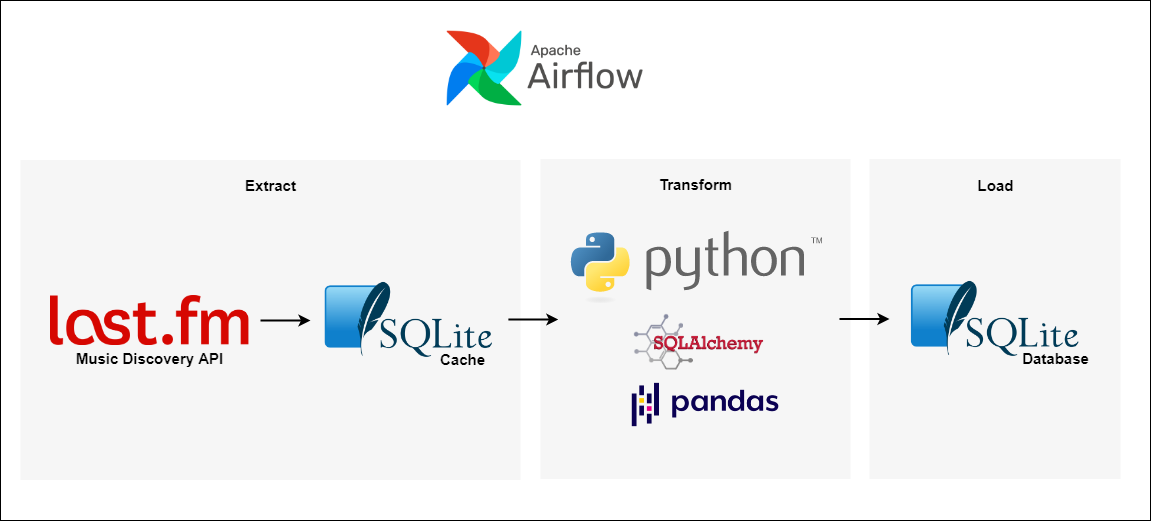
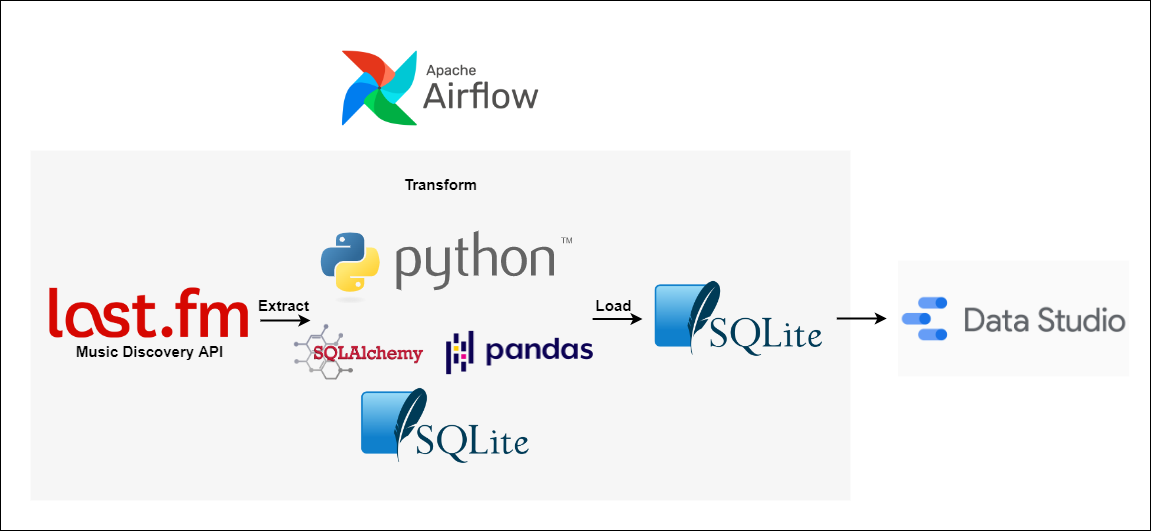
README

diff --git a/README.md b/README.md
@@ -1,48 +1,22 @@
-# Todo:
-- Incrementalize ETL into extract, transform, load scripts.
+# Last.fm ETL
+[Link to Last.fm ETL Dashboard](https://datastudio.google.com/reporting/3fb35501-1161-4b5e-9213-885770d2231d)
 
-- airflow sequence
-- edge case: no music listening data
-    - skip if no data using short circuit operator
-- start airflow task from previous date with timedelta 1 day to start on current day
-- make google data studio dashboard using csv
+Data pipeline to extract music listening data using the [Last.fm Music Discovery API](https://www.last.fm/api). The project provides insight into personal music listening activity and trends.
 
+On a technical level, the project is a showcase of Python, SQL, Pandas, ETL, dimensional modeling, and Airflow usage.
 
-                success -> extract (update) -----empty stage----->                      
-check exists ->                                                   transform -> load/append to db -> create csv -> gds
-                failure -> extract (init) -> create stage + db ->
-# Last.fm-ETL
-
-## 1. Objective
-The purpose of this project is to create an agile ETL pipeline and data model for music listening data using the [Last.fm Music Discovery API](https://www.last.fm/api). The project is primarily a showcase of Python programming and it is acknowledged that building an entire pipeline through Python is not an efficient method. Secondarily, the project serves as review and familiarizing myself with the ETL process, data modeling, and elementary Airflow utilization.
-
-## 2. Setup
-- create .env file or replace global variables in functions.py:
-
-```
-DATABASE_LOCATION=sqlite:///listening_history.sqlite
-DATABASE_NAME=listening_history.sqlite
-USER_AGENT=Username
-API_KEY=example1api1key324fdg245
-```
-
-- change dag start date in last.fm_dag.py
-
-```
-'start_date': datetime.datetime(2022, 9, 19), # change to today
-```
-
-- convert to local timezone in transform.py
-```
-df["date"] = pd.to_datetime(df["date"]).dt.tz_convert('America/New_York')
-```
-
-## 3. ETL Architecture
+## ETL Architecture
 ![Project Basic Architecture](images/Last.fm_ETL.png)
 
-The data is sourced from [Last.fm Music Discovery API](https://www.last.fm/api) containing music listening history data. Airflow schedules a one time historic load ETL pipeline. Python scripts are used to orchestrate the extract, transform, and load processes to an SQLite database. The Last.fm api requests are cached similar to storing raw data in data lakes before the staging layer for integrity and reduction of repeated API requests made during development and testing of the pipeline. The ETL process will populate all previously recorded music listening data into a star schema model deployed in SQLite.
+1. Extract music listening data from [Last.fm Music Discovery API](https://www.last.fm/api)
+2. Model data and generate staging and final database using star schema
+3. Transform data using Python, Pandas, and SQLAlchemy to the staging layer
+4. Load data from staging layer to final SQLite database
+5. Export data to Google Data Studio for data visualization
+6. Orchestrate tasks with Airflow
 
-## 4. Data Model
+
+## Data Model
 ![Data Model](images/Data_Model.png)
 
 Dimension Tables:
@@ -56,3 +30,48 @@ Fact Tables:
 `Listening_Fact`
 
 The data model uses a star schema described in [The Data Warehouse Toolkit](https://www.kimballgroup.com/data-warehouse-business-intelligence-resources/books/data-warehouse-dw-toolkit/) by Ralph Kimball and Margy Ross. The `Time_Of_Day_DIM` is kept separate from the `Date_DIM` for flexibility and ease of managenent. The `Track_DIM` is a fixed depth hierarchy, modeling the relationship between tracks and albums. The `Artist_DIM` is connected to `Artist_Group_DIM` using a bridge table to keep track of listening activity with multiple artists. `Listening_Fact` is a factless fact table because the grain is one listening occurence which does not need to store additional metrics.
+
+## Orchestration
+![Airflow Operators](images/Airflow_Operators.png)
+
+![Airflow Tasks](images/Airflow_Taskflow.png)
+
+The airflow DAG supports both **one time historic load** and **incremental batch loads** on the music listening data. The DAG is scheduled to run daily.
+
+### Overview:
+- `check_initialized`: BranchPythonOperator which selects between the incremental batch load and the initial one time historic load branches.
+- `initial_extract`: ShortCircuitOperator which extracts all historic data from the [Last.fm Music Discovery API](https://www.last.fm/api). Skips tasks if no new data is available.
+- `update_extract`: ShortCircuitOperator which extracts daily batch data from the [Last.fm Music Discovery API](https://www.last.fm/api). Skips tasks if no new data is available.
+- `initialize_database`: PythonOperator which initializes staging area and final database schema according to the [data model](#data-model) above.
+- `empty_stage`: PythonOperator which empties staging area for new data transformations
+- `transform`: PythonOperator which transforms and formats data to fit the [data model](#data-model) above.
+- `load`: PythonOperator which loads/appends transformed data from staging layer to final database.
+- `export`: PythonOperator which exports database tables as csv for data visualization
+
+## Dashboard
+[![Dashboard](images/Last.fm_ETL_Dashboard.png)](https://datastudio.google.com/reporting/3fb35501-1161-4b5e-9213-885770d2231d)
+
+[Link to Last.fm ETL Dashboard](https://datastudio.google.com/reporting/3fb35501-1161-4b5e-9213-885770d2231d)
+
+## Setup
+- create .env file or replace variables in each file containing load_dotenv(): `extract_functions.py`, `init_db.py`, `empty_stage_.py`, `transform.py`, `load.py`, and `export.py`
+
+```
+DATABASE_LOCATION=sqlite:///listening_history.sqlite
+DATABASE_NAME=listening_history.sqlite
+STAGE_LOCATION=sqlite:///stage.sqlite
+STAGE_NAME=stage.sqlite
+USER_AGENT=LastfmUsername
+API_KEY=dummyapikey123456
+```
+
+- change dag start date to previous day in last.fm_dag.py
+
+```
+'start_date': datetime.datetime(2022, 9, 19)
+```
+
+- convert to local timezone in transform.py
+```
+df["date"] = pd.to_datetime(df["date"]).dt.tz_convert('America/New_York')
+```
